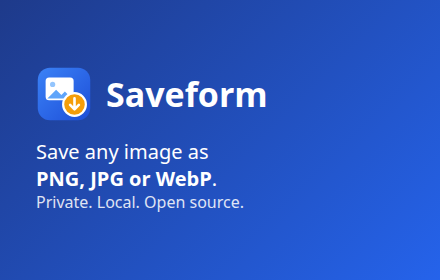
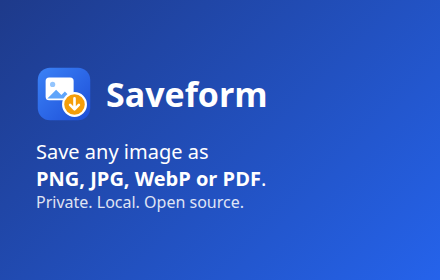
Chrome Web Store is live: store button on the site; quality pass (phone/desktop audit, touch drop zone)
- Extension page: removed the "download ZIP / Load unpacked" install steps (charter: never ask
  visitors to install by hand); "Add to Chrome" button to the live listing, two store screenshots.
- Converter callout, 3 guides, index FAQ and README link the Chrome Web Store listing (CWS_URL).
- scripts/site-audit.mjs + tests/site-audit.test.mjs: every page at 390 px (touch) and 1280 px:
  console errors, failed/external requests, overflow, alt text, accessible names, tap targets,
  placeholder text; guards the store-button rule.
- Touch devices: "Choose images / Tap here…" instead of "Drop here · paste with Ctrl+V".
- General converter: no standing AVIF note (the disabled option already says so); shorter intro.
- Privacy policy date is the policy's own date, not the build date.
- Store screenshot 1 / og-image show PDF in the menu; amo-submit.py --previews.

Changed region(s): [[0.2659, 0.6, 0.5909, 0.6857]]

diff --git a/site/content/extension.html b/site/content/extension.html
@@ -1,7 +1,13 @@
 <section class="hero hero-ext">
-<h1>Saveform for Chrome: save any web image as PNG, JPG, WebP or PDF</h1>
+<h1>Saveform: save any web image as PNG, JPG, WebP or PDF</h1>
 <p class="lede">Right-click an image, pick a format, and it is saved in that format. Or click the toolbar button to save every image on the page at once. The conversion happens on your computer, with the same code that powers the <a href="{{root}}">converter on this site</a>.</p>
-<p class="badge-line"><span class="badge">Firefox: submitted to Mozilla, in review</span> <span class="badge">Chrome Web Store: coming soon</span></p>
+<p class="store-line"><a class="btn" href="{{cws}}" rel="noopener">Add to Chrome, free</a></p>
+<p class="muted store-note">From the Chrome Web Store; also installs in Edge, Brave and other Chromium browsers. The Firefox version is in Mozilla’s review queue and will be linked here when it is live.</p>
+</section>
+
+<section class="ext-shots" aria-label="Screenshots">
+<figure><img src="{{root}}assets/ext-menu.webp" width="1280" height="800" alt="Right-clicking an image shows a Save image as menu with PNG, JPG, WebP, PDF and Copy as PNG"><figcaption>Right-click any image and pick a format.</figcaption></figure>
+<figure><img src="{{root}}assets/ext-save-all.webp" width="1280" height="800" loading="lazy" alt="The toolbar panel lists every image on a page in a grid with format and output choices"><figcaption>Or save every image on a page as files, one ZIP or one PDF.</figcaption></figure>
 </section>
 
 <section class="prose">
@@ -9,7 +15,7 @@
 <ul>
   <li>Adds a <strong>Saveform</strong> entry to the right-click menu on images, with <em>Save as PNG</em>, <em>Save as JPG</em>, <em>Save as WebP</em> and <em>Save as PDF</em> (and AVIF where the browser can create it), plus <em>Copy as PNG</em>.</li>
   <li>Its toolbar button (shortcut <kbd>Alt</kbd>+<kbd>Shift</kbd>+<kbd>S</kbd>) shows every image on the page in a grid. Untick what you don’t want, hide small icons, and save the rest as separate files, one ZIP or one PDF, converted to PNG, JPG or WebP or kept in their original format. It picks the largest version a page offers and finds CSS background images too.</li>
-  <li>Converts the image locally and saves it through Chrome’s normal downloads, with a sensible file name. In the settings you can build names from the site, date or image size, and pick a folder inside Downloads.</li>
+  <li>Converts the image locally and saves it through the browser’s normal downloads, with a sensible file name. In the settings you can build names from the site, date or image size, and pick a folder inside Downloads.</li>
   <li>Works with the formats sites like to serve but many apps refuse, such as WebP and AVIF.</li>
   <li>Collects nothing. No analytics, no accounts, no remote code. Read the <a href="{{root}}privacy/">privacy policy</a>.</li>
 </ul>
@@ -19,7 +25,7 @@
   <dt><code>contextMenus</code></dt>
   <dd>Adds the Saveform entries to the menu you see when you right-click an image.</dd>
   <dt><code>downloads</code></dt>
-  <dd>Saves the converted file through Chrome’s own download system, so it lands in your usual Downloads folder and shows up in your download list.</dd>
+  <dd>Saves the converted file through the browser’s own download system, so it lands in your usual Downloads folder and shows up in your download list.</dd>
   <dt><code>activeTab</code></dt>
   <dd>Gives the extension temporary access to the current tab, only when you choose a Saveform menu entry or click its toolbar button, so it can read the images you want to save.</dd>
   <dt><code>scripting</code></dt>
@@ -33,17 +39,6 @@
 </dl>
 <p>Saveform does not ask for access to all websites up front (the per-site prompt offers it, and you can decline), and it does not read your browsing history.</p>
 
-<h2>Install it now from the source code</h2>
-<p>Until the store listings are live, you can load the extension directly from its open source code:</p>
-<ol class="steps-list">
-  <li>Download the repository: on <a href="{{repo}}">the GitHub page</a> choose <strong>Code → Download ZIP</strong> and unzip it (or clone it with git).</li>
-  <li>Open <code>chrome://extensions</code> in Chrome (type it into the address bar).</li>
-  <li>Turn on <strong>Developer mode</strong> with the switch in the top-right corner.</li>
-  <li>Click <strong>Load unpacked</strong> and select the <code>extension</code> folder inside the downloaded repository.</li>
-  <li>Right-click any image on the web and look for the Saveform entry, or pin the Saveform button to the toolbar (puzzle-piece menu → pin) to save several images from a page.</li>
-</ol>
-<p class="muted">Extensions loaded this way do not update automatically; download the repository again to get a newer version. Edge and other Chromium-based browsers accept the same steps on their own extensions page.</p>
-
 <h2>Open source</h2>
-<p>All of the code is public at <a href="{{repo}}">github.com/janwan2003/save-image-format</a>. Bug reports and suggestions are welcome as GitHub issues.</p>
+<p>All of the code is public at <a href="{{repo}}">github.com/janwan2003/save-image-format</a>. Every file in the store packages can be checked against it. Bug reports and suggestions are welcome as GitHub issues.</p>
 </section>

diff --git a/site/assets/style.css b/site/assets/style.css
@@ -83,6 +83,11 @@ h3 { font-size: 1.1rem; }
 .drop svg { width: 40px; height: 40px; color: var(--accent); }
 .drop-title { font-size: 1.15rem; font-weight: 600; }
 .drop-sub { color: var(--muted); }
+.drop-touch { display: none; }
+@media (hover: none) and (pointer: coarse) {
+  .drop-pointer { display: none; }
+  .drop-touch { display: block; }
+}
 .linkish { color: var(--accent); text-decoration: underline; }
 kbd { font: 0.85em ui-monospace, SFMono-Regular, Menlo, Consolas, monospace; border: 1px solid var(--border); border-bottom-width: 2px; border-radius: 4px; padding: 0 4px; background: var(--surface); }
 
@@ -157,7 +162,15 @@ output { min-width: 3.2em; font-variant-numeric: tabular-nums; }
 .callout svg { width: 56px; height: 56px; }
 .callout h2 { margin: 0 0 4px; font-size: 1.25rem; }
 .callout p { margin: 0 0 10px; }
-.badge { display: inline-block; padding: 3px 10px; border-radius: 999px; background: var(--accent-soft); color: var(--accent); font-weight: 600; font-size: 0.9rem; border: 1px solid var(--accent); }
+.callout .callout-actions { display: flex; flex-wrap: wrap; gap: 8px; margin: 0; }
+.store-line { margin: 18px 0 6px; }
+.store-line .btn { padding: 11px 20px; font-size: 1.05rem; }
+.store-note { margin: 0; font-size: 0.92rem; }
+.ext-shots { display: grid; grid-template-columns: 1fr 1fr; gap: 16px; margin: 24px 0 8px; }
+.ext-shots figure { margin: 0; }
+.ext-shots img { display: block; width: 100%; height: auto; border-radius: var(--radius); border: 1px solid var(--border); }
+.ext-shots figcaption { margin-top: 6px; font-size: 0.92rem; color: var(--muted); }
+@media (max-width: 720px) { .ext-shots { grid-template-columns: 1fr; } }
 .perms dt { font-weight: 700; margin-top: 14px; }
 .perms dd { margin: 4px 0 0 0; }
 .steps-list li { margin: 0.4em 0; }

diff --git a/site/assets/app.js b/site/assets/app.js
@@ -148,10 +148,11 @@ function init(root) {
         unsupported.push(fmt.label);
       }
     }
-    // The note matters on the general converter, or when this page's own format is unavailable;
-    // elsewhere the disabled option's label already says so.
+    // The note matters only when this page's own output format is unavailable; otherwise the
+    // disabled option's label already says so (every current browser lacks AVIF output, so a
+    // standing note on the general converter was noise).
     const wantedLabel = formatOf(formatSel.value).label;
-    if (unsupported.length && (root.hasAttribute('data-general') || unsupported.includes(wantedLabel))) {
+    if (unsupported.length && unsupported.includes(wantedLabel)) {
       const wanted = formatOf(formatSel.value);
       let msg = `This browser cannot create ${unsupported.join(' or ')} files from a web page, so ${unsupported.length > 1 ? 'those options are' : 'that option is'} switched off.`;
       if (unsupported.includes(wanted.label)) {

diff --git a/site/content/privacy.html b/site/content/privacy.html
@@ -1,6 +1,7 @@
+<!-- Policy date: update "Last updated" below by hand whenever this text changes (not the build date). -->
 <article class="prose">
 <h1>Privacy policy</h1>
-<p class="muted">Applies to the Saveform website and the Saveform browser extension. Last updated: {{updated}}.</p>
+<p class="muted">Applies to the Saveform website and the Saveform browser extension. Last updated: 2026-11-20.</p>
 
 <h2>The short version</h2>
 <p>Saveform does not collect, store or share any data about you or your images. Images are converted on your own device and never leave it. There are no analytics, no cookies, no accounts and no advertising.</p>

diff --git a/scripts/amo-submit.py b/scripts/amo-submit.py
@@ -6,6 +6,7 @@ Credentials: AMO_JWT_ISSUER / AMO_JWT_SECRET from the studio .env (never printed
 Usage: python3 scripts/amo-submit.py            # upload + create or add version
        python3 scripts/amo-submit.py --status   # show the add-on's review status
        python3 scripts/amo-submit.py --listing  # only update the listing summary/description
+       python3 scripts/amo-submit.py --previews # upload store screenshots AMO does not have yet
 """
 import base64, hashlib, hmac, json, sys, time, urllib.error, urllib.request, uuid
 from pathlib import Path
@@ -56,7 +57,7 @@ def call(method, path, data=None, files=None):
             parts.append(f'--{boundary}\r\nContent-Disposition: form-data; name="{k}"\r\n\r\n{v}\r\n'.encode())
         for k, (name, content) in files.items():
             parts.append(f'--{boundary}\r\nContent-Disposition: form-data; name="{k}"; filename="{name}"\r\n'
-                         f'Content-Type: application/zip\r\n\r\n'.encode() + content + b"\r\n")
+                         f'Content-Type: {"image/png" if name.endswith(".png") else "application/zip"}\r\n\r\n'.encode() + content + b"\r\n")
         body = b"".join(parts) + f"--{boundary}--\r\n".encode()
         headers["Content-Type"] = f"multipart/form-data; boundary={boundary}"
     elif data is not None:
@@ -123,11 +124,42 @@ def main():
         sys.exit(1)
 
 
+# Store screenshots (1280x800) in listing order, with captions; matched to AMO previews by caption.
+PREVIEWS = [
+    ("docs/store/screenshot-1280x800.png", "Right-click an image, pick a format. Converted on your device."),
+    ("docs/store/screenshot-2-1280x800.png", "Save every image on a page as files, one ZIP or one PDF"),
+]
+
+
+def upload_previews():
+    code, a = call("GET", f"/addons/addon/{ADDON_ID}/")
+    if code != 200:
+        print("not found", code, a); return 1
+    have = [((p.get("caption") or {}).get("en-US") or "") for p in a.get("previews", [])]
+    print("AMO has", len(have), "preview(s):", have)
+    failed = 0
+    for i, (rel, caption) in enumerate(PREVIEWS):
+        if i < len(have):
+            continue  # AMO already has a screenshot in this position
+        path = ROOT / rel
+        code, res = call("POST", f"/addons/addon/{ADDON_ID}/previews/", {"position": str(i)},
+                         {"image": (path.name, path.read_bytes())})
+        print("preview", rel, code, json.dumps(res)[:300])
+        if code < 300:  # multipart cannot carry the translated caption object; set it with JSON
+            time.sleep(40)
+            code, res = call("PATCH", f"/addons/addon/{ADDON_ID}/previews/{res['id']}/", {"caption": {"en-US": caption}})
+            print("caption", code, json.dumps(res)[:200])
+        failed |= code >= 300
+    return failed
+
+
 def patch_listing():
     return call("PATCH", f"/addons/addon/{ADDON_ID}/", {"summary": {"en-US": SUMMARY}, "description": {"en-US": DESCRIPTION}})
 
 
 if __name__ == "__main__":
+    if "--previews" in sys.argv:
+        sys.exit(upload_previews())
     if "--listing" in sys.argv:
         code, res = patch_listing()
         print("listing", code, json.dumps(res)[:300] if code >= 300 else "updated")

diff --git a/VENTURE.md b/VENTURE.md
@@ -4,7 +4,7 @@ stage: launched
 priority: 4
 url: https://janwan2003.github.io/save-image-format/
 repo: https://github.com/janwan2003/save-image-format
-updated: 2026-11-20
+updated: 2026-11-21
 ---
 
 # save-image-format (product name: Saveform)
@@ -118,14 +118,17 @@ Product name **Saveform** (the slug stays `save-image-format`; "Save Image As Fo
   **v0.2.0 (PDF) submitted 2026-11-20** (AMO version id 6737926, file `unreviewed`, add-on still `nominated`; the
   superseded unreviewed 0.1.0 file is now `disabled`). The first attempt got HTTP 429 (throttled ~45 min); the retry worked.
   `amo-submit.py` now also PATCHes the listing summary/description when it adds a version.
-- **Chrome Web Store: uploaded as a draft, waiting for the operator.** The API works since 2026-11-20 (session 4):
-  item id `iimmananoageikphanfidapckaochlmn` (`store/cws-item-id.txt`), package 0.4.4 uploaded in session 13 (`--status`: crxVersion 0.4.4).
-  `cws-upload.py --publish` returns 400 listing exactly what the dashboard still needs (contact email + verification,
-  language, category, icon, screenshot, description, Privacy practices). Text and files for every field: `store/chrome-privacy.md` (inbox line filed).
+- **Chrome Web Store: LIVE since 2026-11-21** (operator submitted it 2026-11-20, see the "(operator)" entry of that date in OPERATOR-INBOX.md; found live this session):
+  https://chromewebstore.google.com/detail/saveform-save-image-as-pn/iimmananoageikphanfidapckaochlmn, version 0.4.4, "Updated November 21, 2026",
+  "No ratings", no user count shown yet (curl of the public page, 2026-11-21 18:51 UTC). Item id `iimmananoageikphanfidapckaochlmn`
+  (`store/cws-item-id.txt`); future versions go through `scripts/cws-upload.py` (upload, then `--publish`). The site links to it as `CWS_URL`
+  in `site/pages.mjs` (extension page button, converter callout, 3 guides, index FAQ).
 - **AMO v0.3.0 submitted 2026-11-20** (version id 6737975, file `unreviewed`; 0.2.0 file now `disabled`). The listing-text PATCH
   that follows was throttled (429, ~23 h); retry with `python3 scripts/amo-submit.py --listing`.
-- **AMO v0.4.0–0.4.4 NOT yet submitted** (0.4.4 is the one to submit; 0.4.0 never reached AMO): upload validated (0 errors, 1 warning) but the version POST got 429 "available in 80669 s"
-  (≈ 2026-11-21 12:25 UTC). Re-run `python3 scripts/amo-submit.py` (it adds the version and PATCHes the new listing text).
+- **AMO v0.4.4 submitted 2026-11-21 ~17:45 UTC** (session 14; version id 6742854, file `unreviewed`, add-on still `nominated`; 0.3.0 file now
+  `disabled`; validation 0 errors / 1 warning; listing-text PATCH 200). 0.4.0–0.4.3 never reached AMO. Second store screenshot added as AMO
+  preview 457212 with `amo-submit.py --previews` (new flag; uploads missing screenshots, then sets the caption with a JSON PATCH because
+  multipart cannot carry the translated caption).
 - **v0.3.0 (session 4):** settings for a file name pattern (`{name}`, `{site}`, `{date}`, `{time}`, `{width}`, `{height}`;
   default `{name}`) and a folder inside Downloads (`buildFilename()` in `extension/lib/filename.js`; separators, `..` and
   reserved names are cleaned).
@@ -416,13 +419,30 @@ automated; the test pre-grants access), logged-in sites (Instagram, X, Facebook)
 cross-origin iframes, Google Images thumbnails, AVIF output. PDFs opened in Adobe Reader or macOS Preview (only poppler
 and our own parser checked them). ICO files opened in Windows Explorer (only Chromium decoded them).
 
+**Quality pass (session 14):** `scripts/site-audit.mjs` (new) loads every sitemap page plus /privacy/, /extension/ and the 404 page in
+headless Chromium at 390×844 (touch, 2×) and 1280×800 and reports console errors, failed or non-local requests, horizontal overflow,
+images without alt, controls without a name, tap targets < 24 px (a checkbox counts its label) and placeholder-like text; `--shots DIR`
+saves full-page screenshots. `tests/site-audit.test.mjs` runs it in CI and guards the store rule (extension page links the live store,
+no "Load unpacked"/"Download ZIP" install steps on any page). Fixed this session: the extension page told visitors to download the repo
+ZIP and "Load unpacked" (charter violation; removed, page now has the Chrome Web Store button and the two store screenshots as WebP);
+"Add to Chrome" on the converter callout and in 3 guides + index FAQ; touch devices see "Choose images / Tap here to pick from your photos
+or files" instead of "Drop … here · paste with Ctrl+V" (CSS `hover: none and pointer: coarse`); the general converter no longer shows a
+standing "This browser cannot create AVIF" note (every current browser lacks AVIF canvas output; the disabled option says so); shorter
+index intro so the tool is in view on a phone; privacy policy date fixed to the policy's last change (2026-11-20) instead of the build
+date; store screenshot 1 regenerated with PDF in the menu. **Not checked:** real phones (iOS Safari, Android Chrome), Firefox at phone
+width, the extension popup on a phone (extensions do not run there).
+
 ## Next steps
 
-1. **Operator:** fill the Chrome Web Store dashboard for draft item `iimmananoageikphanfidapckaochlmn` (every field's text and
-   file in `store/chrome-privacy.md`; draft holds 0.4.4 (session 13); inbox line 2026-11-20; `--publish` still returns 400 listing the fields, 2026-11-20 session 6). Then run `python3 scripts/cws-upload.py --publish`;
-   the reply lists anything still missing. Afterwards: CWS link on `site/content/extension.html` and in `calloutHtml()`.
-2. After ~2026-11-21 12:30 UTC: `python3 scripts/amo-submit.py` (adds 0.4.4 and PATCHes the listing text; if the listing PATCH is
-   throttled again, `--listing` later). Check the review (`--status`); when approved, add the AMO link to the site and start AMO metrics.
+1. **Chrome Web Store is live (2026-11-21).** Each session: read the public page for users/ratings (curl the listing; the count
+   appears once there are users) and record it in `## Metrics`. Ship extension changes as one batched version: `node scripts/pack-extension.mjs`,
+   `python3 scripts/cws-upload.py` then `--publish`, and the same zip to AMO (`amo-submit.py`, max ~2 versions/day before 429s).
+   Batched extension polish for the next version (0.4.5): options page quality sliders not aligned (label widths differ), "None yet."
+   site list box has odd padding (seen in session 14 screenshots); store screenshot 1 on AMO still shows the menu without PDF (regenerated
+   locally in session 14; AMO preview edit = delete + re-upload).
+2. AMO: 0.4.4 submitted 2026-11-21 (version 6742854, `unreviewed`). Check `python3 scripts/amo-submit.py --status`; when the add-on is
+   `public`, set `AMO_URL` next to `CWS_URL` in `site/pages.mjs`, add a Firefox button on `site/content/extension.html` (and the callout),
+   drop the "Firefox version is in review" sentences (extension page, 3 guides, index FAQ, README), and update `tests/site-audit.test.mjs`.
 3. From ~2026-12-04: `python3 scripts/gsc.py status` for impressions/clicks per page; record them in `## Metrics`, and
    put effort into the page types that get impressions (compare the 4 HEIC URLs, added 2026-11-20, against the WebP ones). Re-run `scripts/indexnow.py` and `gsc.py sitemap` after adding pages.
 4. Store screenshot of the save-all popup: made in session 8 (`docs/store/screenshot-2-1280x800.png`), listed for the operator in
@@ -464,6 +484,11 @@ and our own parser checked them). ICO files opened in Windows Explorer (only Chr
    access, which we refuse). Save-all is the premium candidate in `## Monetization plan` (still free; rule 4).
 
 ## Metrics
+
+- 2026-11-21 (session 14): **Chrome Web Store listing live**, version 0.4.4, "No ratings", no user count shown (curl of
+  https://chromewebstore.google.com/detail/iimmananoageikphanfidapckaochlmn, 18:51 UTC); AMO `nominated`, current_version 0.4.4 file
+  `unreviewed` (`amo-submit.py --status`); `gsc.py status`: sitemap pending, 0 errors/warnings, no search analytics rows for 2026-10-24..2026-11-21.
+  Users: 0 recorded (none measurable yet).
 
 - 2026-11-20 (session 13): no users yet. AMO `nominated`, current_version 0.3.0 file `unreviewed` (`amo-submit.py --status`);
   CWS draft crxVersion 0.4.4 (`cws-upload.py --status`, after this session's upload); `gsc.py status`: sitemap pending, 0 errors/warnings,
@@ -586,3 +611,4 @@ The site's converter pages could later carry one unobtrusive ad slot.
   before). Found by tests and visual checks: corners rounded away (fixed: corners found before simplifying), JPEG noise → 130 specks
   (fixed: merge near-twin palette entries), photos lost foliage colours (fixed: all-pixel palette for photos), 4-colour PNG traced as 6
   after upscaling (fixed: palette from unscaled pixels), 7.6 s main-thread freeze on a busy photo (fixed: worker).
+- 2026-11-20 review: kept p4. Channels, re-read this review: AMO `nominated`, 0.3.0 `unreviewed` (`amo-submit.py --status`); the CWS draft holds 0.4.4 and its public page is still `empty-title` (`cws-upload.py --status`, curl). GSC (Google Search Console) has had no rows in any builder read so far, and none are expected before ~2026-12-04. 0 users after 13 sessions and $82.05 (`state/ledger.csv`). Site, privacy and sitemap return 200. Reviewer guidance: the converter site now covers ~30 formats. Until GSC shows which page types get impressions, prefer channel work (AMO 0.4.4 resubmit after 2026-11-21 12:30 UTC, store assets) and quality over new formats.

diff --git a/README.md b/README.md
@@ -4,6 +4,9 @@ Right-click an image → **Save image as** → **PNG / JPG / WebP / PDF** (and *
 write it), or **Copy as PNG**. Or click the toolbar button (Alt+Shift+S) to see every image on the page and save
 the ones you pick as separate files, one ZIP or one PDF. The conversion happens on your device, inside the browser.
 
+**Install:** [Chrome Web Store](https://chromewebstore.google.com/detail/saveform-save-image-as-pn/iimmananoageikphanfidapckaochlmn)
+(also Edge, Brave and other Chromium browsers). Firefox: in review at addons.mozilla.org.
+
 Website with free in-browser converters (WebP to PNG, HEIC to JPG, PDF to JPG, AVIF to JPG, JPG to PDF, PNG to ICO, PNG to GIF, …):
 https://janwan2003.github.io/save-image-format/
 
@@ -31,14 +34,11 @@ https://janwan2003.github.io/save-image-format/
 | `offscreen` | Chrome only: renders SVG images, which the background worker cannot draw |
 | optional host access | asked per site, only when an image server blocks cross-site reads |
 
-## Install from source (until the store listings are live)
+## Run from source (development)
 
-1. Download this repository (Code → Download ZIP) and unzip it.
-2. Open `chrome://extensions`, turn on **Developer mode**, click **Load unpacked**, and pick the
-   `extension` folder.
-
+Chrome: `chrome://extensions` → **Developer mode** → **Load unpacked** → the `extension` folder.
 Firefox (142+): `about:debugging` → This Firefox → Load Temporary Add-on → `extension/manifest.json`.
-Firefox: submitted to addons.mozilla.org on 2026-11-20 and waiting for Mozilla's review. The Firefox build passes the same end-to-end checks in real Firefox (`tests/firefox.test.mjs`).
+The Firefox build passes the same end-to-end checks in real Firefox (`tests/firefox.test.mjs`).
 
 ## Develop
 
